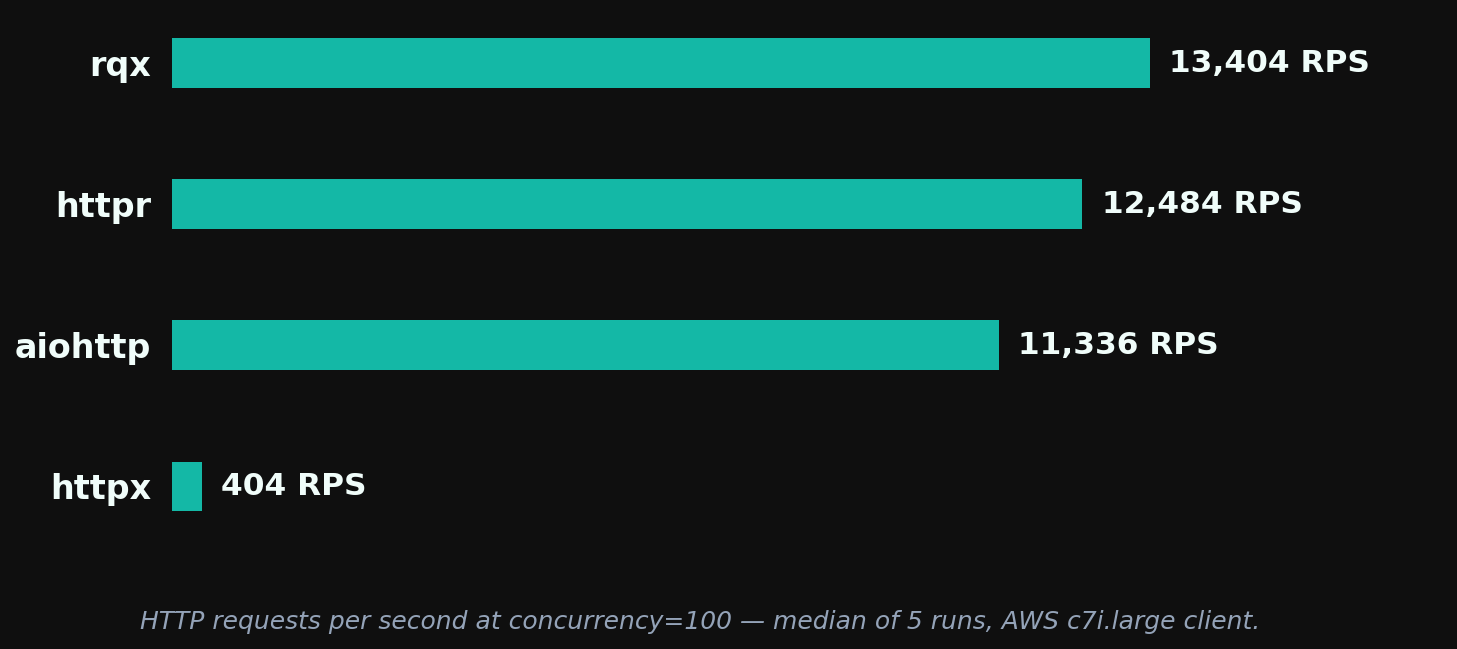
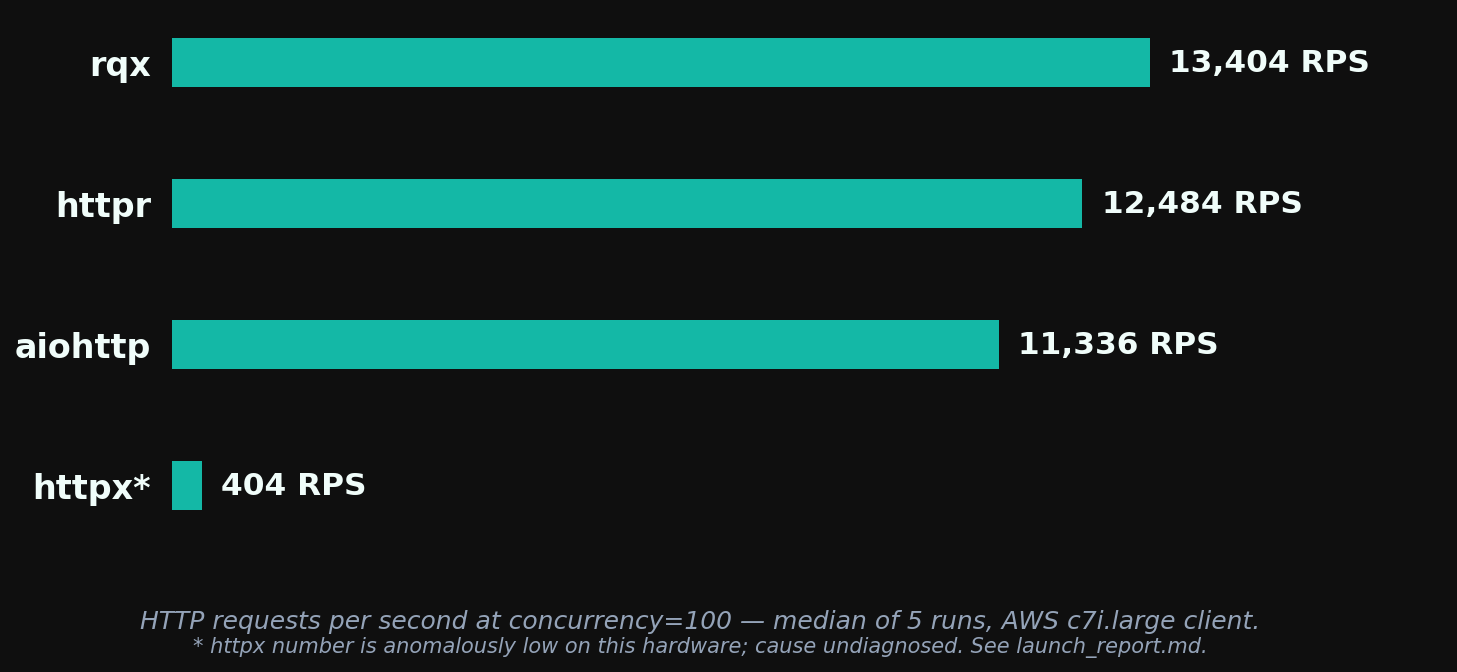
Fix doc writeup

diff --git a/benchmarks/plot_launch.py b/benchmarks/plot_launch.py
@@ -49,18 +49,21 @@ def medians_at(runs, c, key):
     return out
 
 
-def render_bar_chart(values, units, title, out_path, value_fmt=None):
+def render_bar_chart(values, units, title, out_path, value_fmt=None,
+                     label_overrides=None, footnote=None):
     # Sort descending — longest bar on top, shortest on bottom. Consistent
     # across throughput (largest = best) and memory/latency (largest = worst);
     # the visual story is "this bar stands out."
     clients = sorted(values, key=lambda c: -values[c])
     nums = [values[c] for c in clients]
+    label_overrides = label_overrides or {}
+    display_labels = [label_overrides.get(c, c) for c in clients]
 
     fig, ax = plt.subplots(figsize=(11, 4.5), dpi=150)
     fig.patch.set_facecolor(BG)
     ax.set_facecolor(BG)
 
-    bars = ax.barh(clients, nums, color=BAR, height=0.35)
+    bars = ax.barh(display_labels, nums, color=BAR, height=0.35)
     ax.invert_yaxis()
 
     pad = max(nums) * 0.02
@@ -96,6 +99,11 @@ def render_bar_chart(values, units, title, out_path, value_fmt=None):
         0.5, 0.04, title,
         color=SUBTLE, style="italic", ha="center", fontsize=12,
     )
+    if footnote:
+        fig.text(
+            0.5, 0.005, footnote,
+            color=SUBTLE, style="italic", ha="center", fontsize=10,
+        )
 
     plt.subplots_adjust(left=0.18, right=0.95, top=0.95, bottom=0.18)
     plt.savefig(out_path, facecolor=fig.get_facecolor(), bbox_inches="tight")
@@ -128,6 +136,8 @@ def main():
         units="RPS",
         title="HTTP requests per second at concurrency=100 — median of 5 runs, AWS c7i.large client.",
         out_path=out_dir / "launch_throughput.png",
+        label_overrides={"httpx": "httpx*"},
+        footnote="* httpx number is anomalously low on this hardware; cause undiagnosed. See launch_report.md.",
     )
     render_bar_chart(
         medians_at(runs, 100, "peak_rss_mb"),